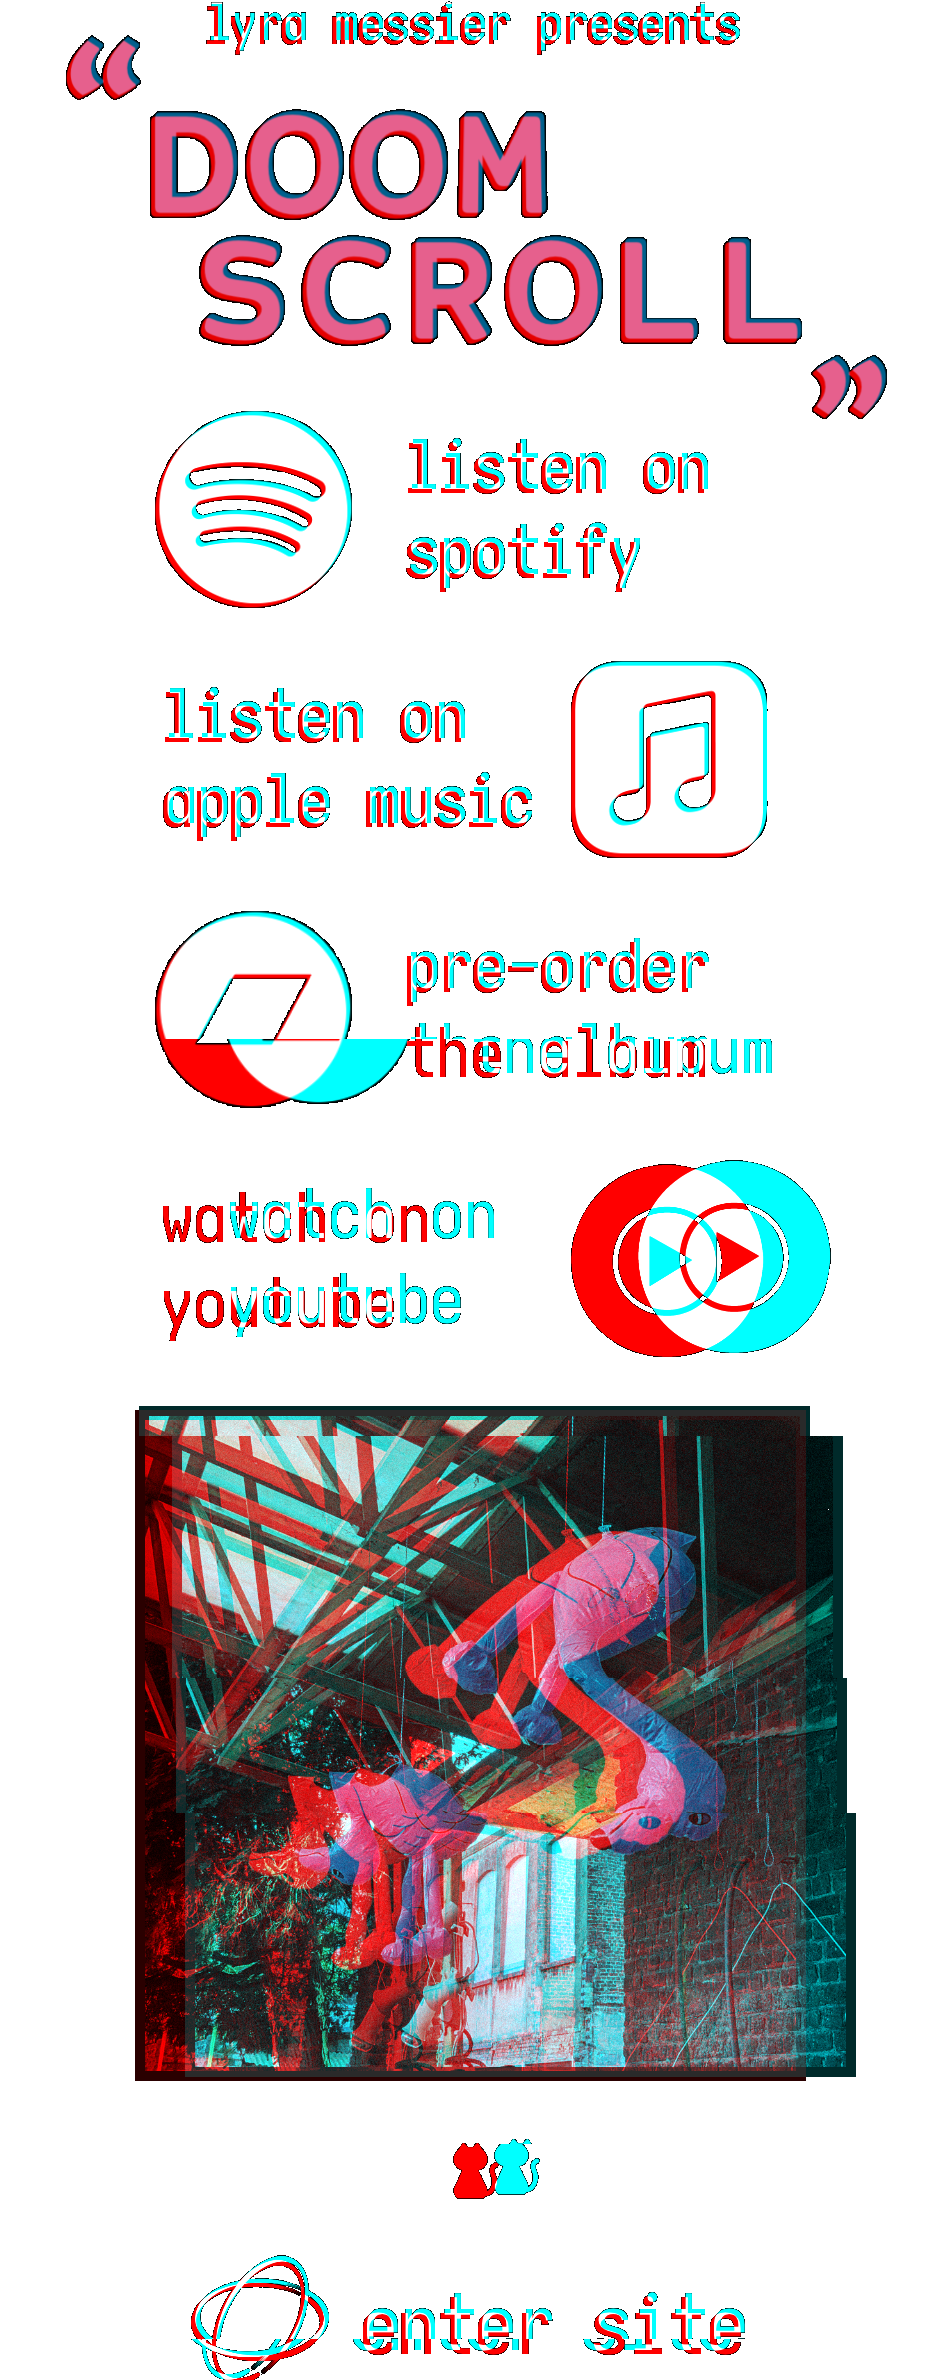
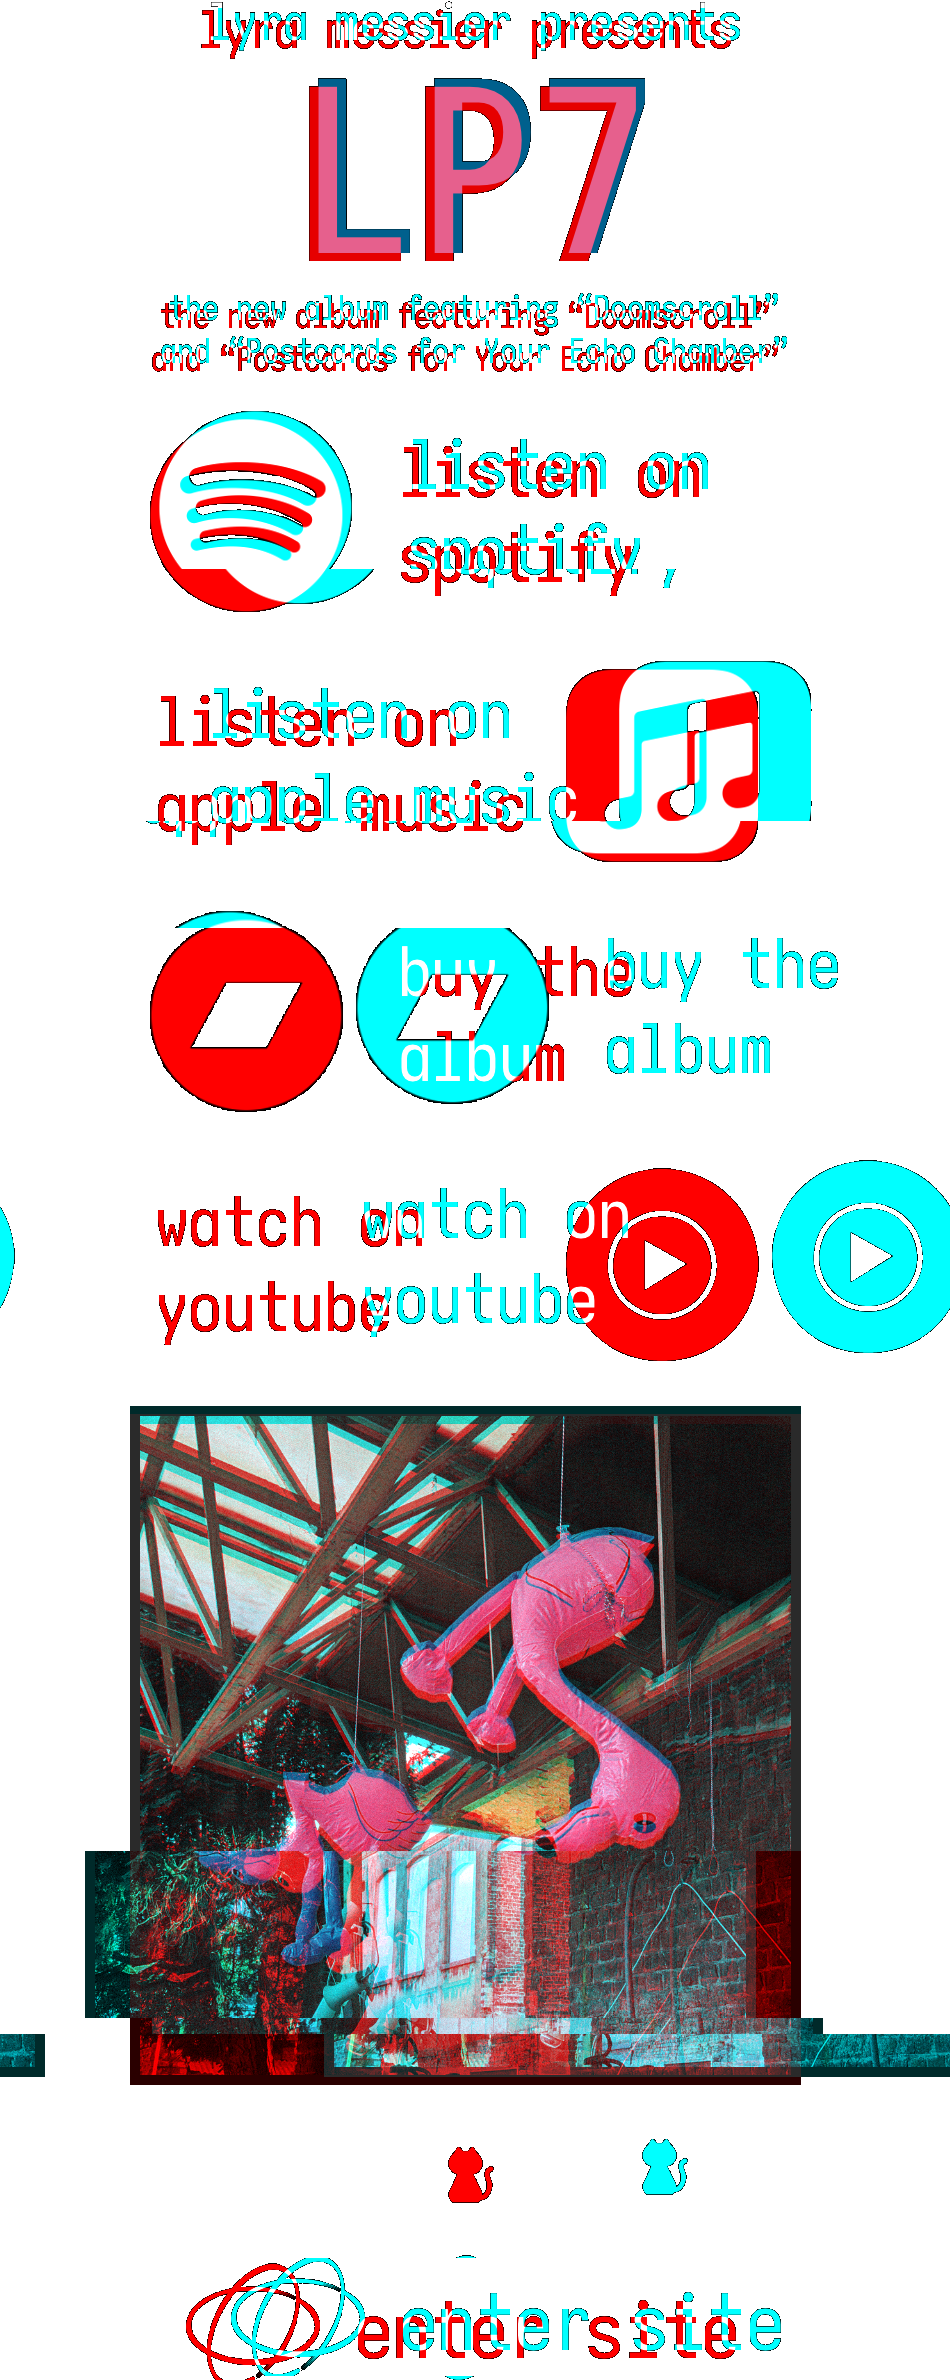
album out wahoo

diff --git a/music.html b/music.html
@@ -124,14 +124,14 @@
                     <area
                         shape="rect"
                         coords="126, 395, 799, 626"
-                        href="https://open.spotify.com/track/0VV0vTsHmO67fyM8GZZxpl"
+                        href="https://open.spotify.com/album/57e90430iNASPz6WnZ6GzZ"
                         alt="Listen on Spotify"
                         title="Listen on Spotify"
                         target="_blank" />
                     <area
                         shape="rect"
                         coords="139, 633, 783, 871"
-                        href="https://music.apple.com/album/doomscroll-single/1767969877"
+                        href="https://music.apple.com/album/lp7/1767969999"
                         alt="Listen on Apple Music"
                         title="Listen on Apple Music"
                         target="_blank" />
@@ -139,13 +139,13 @@
                         shape="rect"
                         coords="139, 896, 720, 1128"
                         href="https://lyramsr.bandcamp.com/album/lp7"
-                        alt="Pre-order on Bandcamp"
-                        title="Pre-order on Bandcamp"
+                        alt="Buy on Bandcamp"
+                        title="Buy on Bandcamp"
                         target="_blank" />
                     <area
                         shape="rect"
                         coords="139, 1151, 786, 1367"
-                        href="https://www.youtube.com/watch?v=MPKRepHfj_4"
+                        href="https://www.youtube.com/watch?v=B0WHK9FBlKE&list=OLAK5uy_nQ0UQSuo5Trk6Ki7Rr1rQqxJ1-YPqvsoA&index=1"
                         alt="Watch on YouTube"
                         title="Watch on YouTube"
                         target="_blank" />
